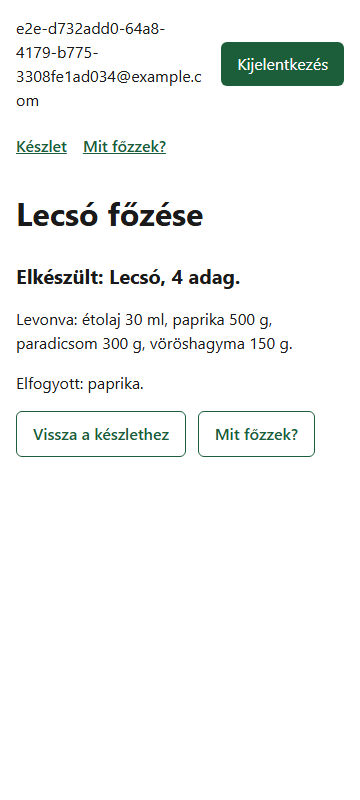
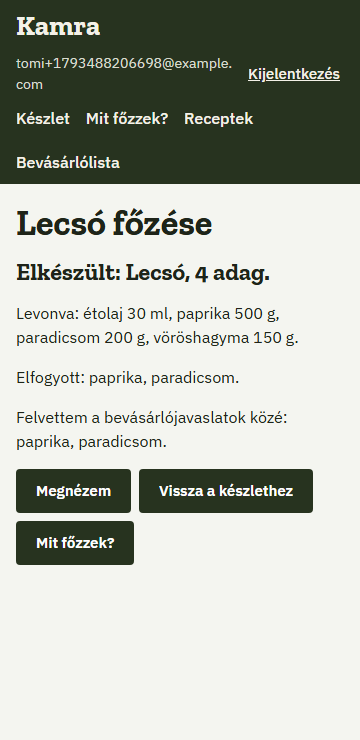
docs: record the 0.4.0 redesign, ADR-0013, P-24 and V-63 to V-65

diff --git a/docs/04_quality/test_report.md b/docs/04_quality/test_report.md
@@ -24,13 +24,14 @@ Cél: 30+ automatizált teszt (≥18 unit, ≥6 integrációs, ≥6 e2e/contract
 |---|---|---|---|
 | Unit | ≥ 18 | 346 | 346 |
 | Integrációs | ≥ 6 | 217 | 217 |
-| Frontend (Vitest) | – | 99 | 99 |
-| E2E | ≥ 6 | 9 (×2 nézet) | 9 |
+| Frontend (Vitest) | – | 123 | 123 |
+| E2E | ≥ 6 | 12 (×2 nézet) | 12 |
 | Negatív esetek | ≥ 5 | 374 | 374 |
-| **Összesen** | **≥ 30** | **671** | **671** |
+| **Összesen** | **≥ 30** | **698** | **698** |
 
 ## Legutolsó futás eredménye
 
+- **2026-11-01 (`v0.4.0`, `feature/design-system`):** PASS – Vitest 123/123 (ebből 24 kontrasztteszt), Playwright 24/24 futás (12 teszt × asztali Chrome és 360 px) elkülönített Docker Compose stack ellen; a backend nem változott. 6 mutáció, mind elbukik: a két oszlop és a latin-ext betűk nélkül az új e2e, a két regressziós teszt a javítás előtt, és a tokenteszt a fejsáv fókuszszabálya nélkül ([V-63 – V-65](../07_ai/verification_log.md)).
 - **2026-10-31 (`v0.3.1`, `feature/pre-uat-changes`):** PASS – .NET 563/563 helyben, a lefedettségi kapu fölött; Vitest 99/99; Playwright 18/18 futás elkülönített Docker Compose stack ellen (`-p kamra-e2e`, 8081-es port). 11 mutáció, mind elbukik; az M7 (üres levonássor), a K1 (ékezet) és a K7 (keresőszó az újratöltés után) elsőre túlélt, ezekre erősödtek a tesztek ([V-62](../07_ai/verification_log.md)). CI: [run 41231148667](https://github.com/toldor/kamra/actions/runs/41231148667) (2026-10-31, `5871f69`): `secrets`, `backend`, `frontend` és `e2e` job zöld.
 - **Előző futás (`v0.3.0`):**
   - Dátum: 2026-10-23
@@ -52,7 +53,7 @@ Cél: 30+ automatizált teszt (≥18 unit, ≥6 integrációs, ≥6 e2e/contract
 | Frontend ([App.test.tsx](../../src/frontend/src/App.test.tsx)) | Unit (Vitest) | Az API-kliens elküldi az antiforgery tokent, a ProblemDetails-ből magyar `ApiError` lesz; elavult tokennél egyszer újrapróbál friss tokennel; hálózati hibára magyar üzenet (negatív); hibás belépésnél H4 üzenet, az e-mail megmarad (negatív); a jelszó mezőhibája a mező alatt, `aria-describedby`-jal, és a fókusz a hibás mezőre ugrik (negatív); kijelentkezés már lejárt sessionnel üzenet nélkül a bejelentkezésre visz (negatív); sikeres regisztráció után üres készlet | ✅ 7/7 |
 | E2E ([auth.spec.ts](../../tests/e2e/auth.spec.ts)) | E2E (Playwright) | Regisztráció → üres készlet → újratöltés után is bejelentkezve → kijelentkezés → bejelentkezés; 360 px-en nincs vízszintes görgetés; hibás belépés H4 üzenettel (negatív). Asztali Chrome és 360 px-es mobil nézet | ✅ 2/2 (4 futás) |
 | Készlet-felület ([PantryPage.test.tsx](../../src/frontend/src/PantryPage.test.tsx)) | Unit (Vitest) | Lista mennyiséggel, egységgel, dátummal és jelvényekkel (lejárt, hamarosan lejár, becsült); üres és szűrt-üres állapot; a három szűrő a kérésben; egység a hozzávaló dimenziójából; a hozzávaló felismerése kis- és nagybetűtől, illetve fölös szóközöktől függetlenül; sikeres rögzítés a kérés törzsével; csökkentés okkal és verzióval; becsült lejárat jelölése a szerkesztőben; negatív: lista- és katalógushiba „Újra” gombbal és azonnali visszajelzéssel, ismeretlen hozzávaló kérés nélkül, szerverhiba a mező alatt fókusszal (űrlap és szerkesztő), üres mennyiség nem törlés, kitörölt dátum `null`, tizedes mennyiség nem csökkenés, **409 → friss adat és a változás kiemelése, a háttérlista is frissül**, 409 utáni kiléptetés, **404 → bezárás és ux_flows-üzenet**, lejárt munkamenet → bejelentkezés az üzenettel; a minimumszint-tájékoztató a Bevásárlólista linkjével | ✅ 23/23 |
-| E2E ([pantry.spec.ts](../../tests/e2e/pantry.spec.ts)) | E2E (Playwright) | Rögzítés lejárat nélkül → becsült dátum, 360 px-en vízszintes görgetés nélkül; csökkentés okkal, majd törlés okkal; a szerkesztőablak bezárása után a fókusz visszakerül a „Módosítás” gombra ([V-28](../07_ai/verification_log.md)). Asztali Chrome és 360 px-es mobil nézet | ✅ 3/3 (6 futás) |
+| E2E ([pantry.spec.ts](../../tests/e2e/pantry.spec.ts)) | E2E (Playwright) | Rögzítés lejárat nélkül → becsült dátum, 360 px-en vízszintes görgetés nélkül; csökkentés okkal, majd törlés okkal; a szerkesztőablak bezárása után a fókusz visszakerül a „Módosítás” gombra ([V-28](../07_ai/verification_log.md)); a betűk ő-vel és ű-vel (latin-ext) betöltődnek, asztalon az űrlap a lista mellett, 360 px-en fölötte; a fejsáv „Kijelentkezés” gombja hoverkor is legalább 4,5:1 (regresszió). Asztali Chrome és 360 px-es mobil nézet | ✅ 5/5 (10 futás) |
 | Indítás ([StartupTests.cs](../../tests/KamraApp.Integration.Tests/StartupTests.cs)) | Integrációs | Connection string nélkül az alkalmazás nem indul el (fail-fast, QA-7, negatív); elérhetetlen adatbázisnál a `/health` 503 (negatív); az antiforgery token sima HTTP-n is kiadható (V-12) | ✅ 3/3 |
 | Mértékegységek ([QuantityTests.cs](../../tests/KamraApp.Unit.Tests/QuantityTests.cs)) | Unit | Átváltás alapegységre (dkg → g, kg → g, dl → ml, l → ml), minden egység pontosan egy dimenzióhoz tartozik, visszaváltás a bevitt egységre a válaszhoz ([ADR-0002](../02_architecture/adr/0002-fix-atvalthato-mertekegysegek.md)) | ✅ 18/18 |
 | Lejárat ([ExpiryTests.cs](../../tests/KamraApp.Unit.Tests/ExpiryTests.cs)) | Unit | Becsült lejárat mind a 13 kategóriára a [data_model.md](../03_design/data_model.md) napértékeivel; „Egyéb” kategóriánál nincs becslés (negatív); a „hamarosan lejáró” ablak határai (tegnap: lejárt; ma, holnap, holnapután: igen; +3 nap: nem); a „ma” a budapesti naptári nap nyári és téli időben, évváltáskor is, egy tetszőleges időpont (a bevitel napja) is ([V-23](../07_ai/verification_log.md)) | ✅ 24/24 |
@@ -79,11 +80,12 @@ Cél: 30+ automatizált teszt (≥18 unit, ≥6 integrációs, ≥6 e2e/contract
 | Bevásárlólista – API ([ShoppingListApiTests.cs](../../tests/KamraApp.Integration.Tests/ShoppingListApiTests.cs)) | Integrációs | P11–P16, P19, P20; azonos hiány az ajánlásban, az előnézetben és a listán; a javaslat a főzéssel egy tranzakcióban (`xmin`); ΣDelta-invariáns; egyidejű elfogadás/elutasítás és felvétel; részleges egyedi index SQL-lel; elkülönítés két háztartással; 401, antiforgery, validáció | Megvalósítva |
 | Ellenséges bevásárlólista-tesztek ([AdversarialShoppingListApiTests.cs](../../tests/KamraApp.Integration.Tests/AdversarialShoppingListApiTests.cs)) | Integrációs | Az Antigravity (Claude Sonnet 4.6) 8 tesztjéből 7 felvéve (ismétlés törölt sor után, 100 000-es határ, dimenzió, csökkenési ok, minimum törlése, verseny ötször, szivárgás a hibaválaszban), 1 érvénytelen kihagyva ([V-40](../07_ai/verification_log.md)) | Megvalósítva |
 | Bevásárlólista-felület ([ShoppingListPage.test.tsx](../../src/frontend/src/ShoppingListPage.test.tsx)) | Unit (Vitest) | Menü és `aria-current`; a négy állapot; az elfogyott- és a minimum-javaslat indoka, mennyisége és magyarázata (M12, M13); elfogadás `{}`-val és `{ amount, unit }`-val; elutasítás a következmény szövegével, a fókusz az értesítésre kerül; a gombok a friss lista megérkezéséig tiltva; kézi felvétel mennyiséggel és anélkül; kipipálás azonnal; törlés; minimumszint beállítása és törlése; negatív: hiba + „Újra”, érvénytelen mennyiség a mezőnél, másutt eldöntött javaslat és törölt tétel → önfrissítés, hozzávaló nélkül nincs kérés, sikertelen pipa visszaáll, minimum mennyiség nélkül nincs kérés; keresés a tételnévben, a szűrt sor a saját tételét pipálja, a keresőszó az újratöltés után megmarad; negatív: nincs találat → üzenet, üres listánál nincs kereső | ✅ 22/22 |
-| E2E ([shopping.spec.ts](../../tests/e2e/shopping.spec.ts)) | E2E (Playwright) | **P13** a teljes úton: rögzítés → „Mit főzzek?” (paradicsom 100 g hiányzik) → előnézet (hiány 100 g) → hiány a listára → megerősítés → *„Felvettem a bevásárlójavaslatok közé: paprika.”* → a paprika-javaslat elfogadása 500 g-mal (paradicsom-javaslat nincs, M15) → kipipálás → újratöltés után ugyanaz; 360 px-en vízszintes görgetés nélkül. Asztali Chrome és 360 px-es mobil nézet | ✅ 1/1 (2 futás) |
+| E2E ([shopping.spec.ts](../../tests/e2e/shopping.spec.ts)) | E2E (Playwright) | **P13** a teljes úton: rögzítés → „Mit főzzek?” (paradicsom 100 g hiányzik) → előnézet (hiány 100 g) → hiány a listára → megerősítés → *„Felvettem a bevásárlójavaslatok közé: paprika.”* → a paprika-javaslat elfogadása 500 g-mal (paradicsom-javaslat nincs, M15) → kipipálás → újratöltés után ugyanaz; 360 px-en vízszintes görgetés nélkül; a hosszú nevű minimumszint „Törlés” gombja a panelen belül marad (regresszió). Asztali Chrome és 360 px-es mobil nézet | ✅ 2/2 (4 futás) |
 | Saját recept, archiválás, saját hozzávaló – Domain és Application ([OwnRecipeTests.cs](../../tests/KamraApp.Unit.Tests/OwnRecipeTests.cs)) | Unit | Alapegységű tárolás, a háztartás és a rendezett név; a hozzávaló normalizált neve (U+00A0 is); a lista és a hozzávalók magyar betűrendben; archiválás idővel, ismételt archiválás változatlan; negatív: az M9 minden szabálya mezőnként (név, adagszám, elkészítés, 0 és 51 sor, hiányzó vagy ismétlődő hozzávaló, mennyiség, egység és dimenzió, csak alaphozzávaló), idegen hozzávaló (P17) és recept, foglalt név normalizálás után, hibás hozzávaló-kérés | ✅ 42/42 |
 | Archivált recept a főzésnél ([CookingUseCaseTests.cs](../../tests/KamraApp.Unit.Tests/CookingUseCaseTests.cs)) | Unit | M8: előnézet és új főzés `RECIPE_ARCHIVED`, levonás nélkül (negatív); D-c: az ismétlés a tárolt választ kapja | ✅ 3/3 |
 | Receptek-API ([RecipesApiTests.cs](../../tests/KamraApp.Integration.Tests/RecipesApiTests.cs)) | Integrációs | **P17**, **P18a**, **P18b**; ismételt és 5 × egyidejű archiválás egy sorral; a migráció sémája SQL-lel; negatív: foglalt név (rendszer- és saját), idegen recept és hozzávaló, visszavont hozzávaló, 5 × egyidejű azonos név, sorhiba-kulcs, 401 és antiforgery minden új végponton | ✅ 21/21 |
 | Ellenséges recept-tesztek ([AdversarialRecipesAndCookingTests.cs](../../tests/KamraApp.Integration.Tests/AdversarialRecipesAndCookingTests.cs)) | Integrációs | Az Antigravity (Claude Sonnet 4.6) írta, három tesztkód-javítással ([V-50](../07_ai/verification_log.md)): IDOR a hozzávaló-hivatkozáson (recept, készlet, minimum), archiválási jogosultság és elkülönítés, a D-c kijátszása (új `requestId`, ugyanaz más recepttel), névnormalizálás, 100 és 101 karakter, 10 hibás receptbemenet, szivárgás a hibaválaszban | ✅ 24/24 |
+| Színtokenek ([tokens.test.ts](../../src/frontend/src/tokens.test.ts)) | Unit (Vitest) | Az `index.css` tokenjeiből: 17 szöveg–háttér pár legalább 4,5:1, 5 nem-szöveges pár (fókusz, mezőkeret, menüjelölő, kiemelés) legalább 3:1; a kék fókusz a fejsávon nem éri el a 3:1-et, ezért ott saját fókuszszín kell (negatív) ([ADR-0013](../02_architecture/adr/0013-vizualis-rendszer.md)) | ✅ 24/24 |
 | Receptek-felület ([RecipesPage.test.tsx](../../src/frontend/src/RecipesPage.test.tsx)) | Unit (Vitest) | Menü és `aria-current`; a négy állapot; archiválás csak megerősítéssel, értesítés fókusszal; az „Új recept” kérés törzse, sor hozzáadása és törlése; piszkozat visszatöltése és törlése (M14); „Új hozzávaló” csak ismeretlen névnél, fókusszal a kis űrlapra és vissza, a készletűrlapon is; negatív: hiba + „Újra”, mezőhibák a megfelelő sor alatt fókusszal, hozzávaló nélkül nincs kérés, recept szintű hiba az 1. sorban, sortörlés törli a hibákat, hiányzó mérési mód a mezőnél, névütközés; keresés a névben (kis- és nagybetű, fölös szóköz) és a hozzávalókban, súgóval; negatív: ékezet nélkül nincs találat, nincs találat → üzenet, üres mező → minden recept | ✅ 18/18 |
 | E2E ([recipes.spec.ts](../../tests/e2e/recipes.spec.ts)) | E2E (Playwright) | Saját recept saját hozzávalóval → újratöltés, a piszkozat megmarad → mentés → készlet → „Mit főzzek?”: elkészíthető → archiválás → eltűnik; 360 px-en vízszintes görgetés nélkül | ✅ 1/1 (2 futás) |
 

diff --git a/docs/01_product/ux_flows.md b/docs/01_product/ux_flows.md
@@ -46,7 +46,7 @@ A három fő felhasználói útvonal, a hibahelyzetek, az üres állapotok és a
 - **Cél:** Tomi felveszi a saját receptjét a saját hozzávalóival, és kiveszi az ajánlásból azt, amit nem főz.
 - **Előfeltétel:** bejelentkezett felhasználó.
 - **Lépések:**
-  1. A „Receptek” oldalon az induló és a saját receptek állnak, a saját „Saját recept” jelöléssel; mindegyiknél „Recept megtekintése” és „Archiválás”. A lista fölötti „Keresés” mező a recept nevében és hozzávalóiban keres.
+  1. A „Receptek” oldalon az induló és a saját receptek állnak, a saját „Saját recept” jelöléssel; mindegyiknél „Megnyitás” és „Archiválás”. A lista fölötti „Keresés” mező a recept nevében és hozzávalóiban keres.
   2. Az „Új recept” űrlapon megadja a nevet, az adagszámot, a hozzávalókat mennyiséggel és egységgel, és ha akarja, az elkészítést. Ha egy hozzávaló nincs a listán, a mező alatt „Új hozzávaló: *név*”: megadja, mivel méri és melyik kategória, és a hozzávaló csak az ő háztartásában jelenik meg. Ugyanez a készletűrlapon is működik.
   3. Ha közben frissít vagy újra be kell jelentkeznie, a félbehagyott recept visszatöltődik: *„Visszatöltöttem a félbehagyott receptet.”*
   4. Mentés után: *„Elmentettem a receptet: Zabtejes kakaó.”* A recept a készletből ugyanúgy ajánlható és főzhető, mint az induló.
@@ -96,6 +96,7 @@ A hibaüzenetek magyarok, nem tartalmaznak technikai kifejezést vagy HTTP-kódo
 - A hibaüzenetek képernyőolvasóval is felolvasódnak (`aria-live`), és a hibás mezőhöz kapcsolódnak.
 - Az ikonos gomboknak szöveges neve van.
 - Mobilon legalább 16 px-es alap betűméret, és legalább 44×44 px-es érintési felület.
+- A színek kontrasztját teszt őrzi ([tokens.test.ts](../../src/frontend/src/tokens.test.ts)); a sötét fejsávon a fókuszkeret a fejsáv világos szövegszíne.
 
 **Ellenőrzés:** a Chrome Lighthouse akadálymentességi auditja a készlet, a „Mit főzzek?” és a bevásárlólista oldalon (legalább 90 pont), valamint egy kézi billentyűzetes bejárás. Opcionális bővítés: automatizált axe-core ellenőrzés az e2e tesztekben (új függőség, jóváhagyás kell).
 
@@ -103,9 +104,9 @@ A hibaüzenetek magyarok, nem tartalmaznak technikai kifejezést vagy HTTP-kódo
 
 | Flow | Screenshot / GIF | E2E teszt |
 |---|---|---|
-| 1. Első indulás és bevásárlás rögzítése | Kézi ág: [pantry-360.png](../assets/pantry-360.png) (360 px); a mondatos ág a US-2-vel | Kézi ág: [pantry.spec.ts](../../tests/e2e/pantry.spec.ts) (rögzítés becsült lejárattal, csökkentés okkal, törlés, fókusz-visszaadás); a mondatos ág a 2. lépcsőben |
-| 2. „Mit főzzek?” – főzés | Ajánlás: [recommendations-360.png](../assets/recommendations-360.png) (P7); főzés: [cooking-360.png](../assets/cooking-360.png), [cooking-done-360.png](../assets/cooking-done-360.png) (P2) | [cooking.spec.ts](../../tests/e2e/cooking.spec.ts) (a fő flow a P2-vel, dupla kattintás); [RecommendationsPage.test.tsx](../../src/frontend/src/RecommendationsPage.test.tsx), [CookingPage.test.tsx](../../src/frontend/src/CookingPage.test.tsx) |
-| 3. Bevásárlójavaslattól a listáig | [shopping-360.png](../assets/shopping-360.png) (P13) | [shopping.spec.ts](../../tests/e2e/shopping.spec.ts) (P13 a teljes úton: ugyanaz a hiány az ajánlásban, az előnézeten és a listán); [ShoppingListPage.test.tsx](../../src/frontend/src/ShoppingListPage.test.tsx) |
+| 1. Első indulás és bevásárlás rögzítése | Kézi ág: [pantry-360.png](../assets/pantry-360.png) (360 px), [pantry-1280.png](../assets/pantry-1280.png) (asztali); a mondatos ág a US-2-vel | Kézi ág: [pantry.spec.ts](../../tests/e2e/pantry.spec.ts) (rögzítés becsült lejárattal, csökkentés okkal, törlés, fókusz-visszaadás); a mondatos ág a 2. lépcsőben |
+| 2. „Mit főzzek?” – főzés | Ajánlás: [recommendations-360.png](../assets/recommendations-360.png) (P7), [recommendations-1280.png](../assets/recommendations-1280.png) (asztali, mindkét csoporttal); főzés: [cooking-360.png](../assets/cooking-360.png), [cooking-done-360.png](../assets/cooking-done-360.png) (P2) | [cooking.spec.ts](../../tests/e2e/cooking.spec.ts) (a fő flow a P2-vel, dupla kattintás); [RecommendationsPage.test.tsx](../../src/frontend/src/RecommendationsPage.test.tsx), [CookingPage.test.tsx](../../src/frontend/src/CookingPage.test.tsx) |
+| 3. Bevásárlójavaslattól a listáig | [shopping-360.png](../assets/shopping-360.png) (P13), [shopping-1280.png](../assets/shopping-1280.png) (asztali) | [shopping.spec.ts](../../tests/e2e/shopping.spec.ts) (P13 a teljes úton: ugyanaz a hiány az ajánlásban, az előnézeten és a listán); [ShoppingListPage.test.tsx](../../src/frontend/src/ShoppingListPage.test.tsx) |
 | 4. Saját recept és archiválás | [recipes-360.png](../assets/recipes-360.png), [recipes-form-360.png](../assets/recipes-form-360.png) | [recipes.spec.ts](../../tests/e2e/recipes.spec.ts) (saját recept saját hozzávalóval, a piszkozat túléli az újratöltést, ajánlásban megjelenik, archiválás után eltűnik); [RecipesPage.test.tsx](../../src/frontend/src/RecipesPage.test.tsx) |
 | Hibakezelés (H1, H3) | Screenshot a hibaüzenettel és a helyreállítással | Playwright: AI-kiesés mockkal, hálózati hiba |
 
@@ -115,5 +116,4 @@ A hibaüzenetek magyarok, nem tartalmaznak technikai kifejezést vagy HTTP-kódo
 - Az „Új hozzávaló” csak a készlet- és a receptűrlapon érhető el, a bevásárlólistán és a minimumszintnél nem. A saját hozzávaló és a saját recept nem szerkeszthető, az archiválás nem vonható vissza (data_model, Ismert hiányosságok).
 - A „Hiány a bevásárlólistára” gomb (a „Mit főzzek?” oldalon és a főzés előnézetén) a sikeres felvétel után eltűnik az adott képernyőről. Ha az oldal újratöltése után újra megnyomod, a mennyiségek összeadódnak, a lista egy sor marad. Ha a főzés előnézetén a felvétel után módosítod a mennyiségeket, a különbséget kézzel veheted fel a listára.
 - A keresés a böngészőben szűr; az ékezet számít (a „lecso” nem találja a „Lecsó”-t), ahogy a készletnél.
-- A képernyőképek (`docs/assets`) a `v0.3.0` feliratait mutatják.
 - A szerkesztőablak bezárásakor a fókusz visszakerül a megnyitó „Módosítás” gombra ([V-28](../07_ai/verification_log.md)); törléskor a gomb megszűnik, ilyenkor a fókusz a lap elejére kerül.

diff --git a/docs/07_ai/prompt_log.md b/docs/07_ai/prompt_log.md
@@ -428,3 +428,21 @@ A **„Mit változtattam / döntésem"** mezőt a fejlesztő tölti ki – az AI
   - docs: `02_architecture/adr/0012-bongeszos-kereses.md`, `00_index.md`, `scope_contract.md`, `ux_flows.md`, `capability_map.md`, `traceability.md`, `test_report.md`, `uat.md`, `deploy_runbook.md`, `changelog.md`, `README.md`, `verification_log.md` (V-61, V-62), `prompt_log.md` (P-23);
   - a repón kívül: `03_tervek\2026-10-31_v031_terv.md`.
 - **Mit változtattam / döntésem:** Elfogadtam az 1a, 1b, 2 (a javasolt szöveggel) és 3 pontot. A 4-et az ajánlással szemben az UAT előtt megvalósíttattam, a vállalás bővítésével. Az 5-öt elvetettem. A commitokat és a pusht kérésemre a Claude Code végezte (Co-Authored-By nélkül).
+
+### P-24 – Design system és új felület (v0.4.0)
+- **Dátum:** 2026-10-31 – 2026-11-01
+- **Cél:** A felület újratervezése a fejlesztő által választott design szerint, a működés megtartásával; az UAT ezen az új felületen fut.
+- **Eszköz:** Claude Code (claude-opus-5-5), a Claude Design-vászon és artifactok („Kamra stílusirányok”), `/code-review` két ágenssel (kódolási szabályok, spec); független review: Antigravity (Gemini).
+- **Prompt összefoglaló:** „Szeretnék nagy UI javításokat és újratervezést is csinálni … modern de nem tipikus AI kinézetű webdesign. a claude design erre jó lenne nekem” → „Kezdjük el a design systemet és kódoljuk is le (új branchen), az UAT ez után csináljuk” → „igen” (3 irány) → „A C2 és C3 designokat választottam … Tartsd meg a C2 és C3 designokból a színeket, elrendezést, stílust.” → a 8 ütközésre adott döntések, „jóváhagyom a tervet” → „12: mehet, commitolj te most” → „kell egy kis javítás” (hosszú nevű minimumszint, a kereső helye) → „igen, javítsd mind az F1–F5 pontokat” → az Antigravity-review → „A” (0.4.0) → „Igen” (doksi).
+- **AI javaslat (eredeti):**
+  - **Módszer:** a Claude-on belüli Design-vászon és Design System artifact (a különálló claude.ai/design 2026. dec. 14-én bezár); három irány: A „Címke”, B „Konyhai jegyzetfüzet”, C „Piaci tábla”; ajánlás: A.
+  - **Ütközésvizsgálat a C2/C3 táblákon:** 8 pont (a Receptek elkészíthetőségi szűrője és címkéje, „Megnyitás”/„Szerkesztés”, a listatétel forrása, a szabad szöveges új tétel, a javaslatok gombjai, a soronként szerkeszthető minimumszint, a hiányzó lista-funkciók, a Készlet „Új tétel” űrlapja); mindegyiknél javaslat a mostani működés megtartására.
+  - **Terv** (`03_tervek\2026-10-31_design_system_terv.md`): tokenek CSS-változóként, saját tárhelyű betűk (ADR-0013), kontrasztteszt, oldalankénti átépítés; a fejsávon a kék fókuszkeret kb. 2:1-es – ezt a Claude Code a kontrasztszámításnál maga találta.
+  - **Review:** a `/code-review` szétválogatva (F1–F5), az Antigravity 8 megállapítása szétválogatva ([V-65](verification_log.md)); verzió: `0.4.0` (A, ajánlott), a US-2 `0.5.0`.
+- **Eltérés a folyamattól:** ennél a szakasznál a tesztek az implementáció után készültek, nem előtte; a két regressziós teszt (hosszú nevű minimumszint, a fejsáv hover-kontrasztja) a javítás előtt pirosan futott, de az elsőt csak a `feat:` commit után commitoltuk.
+- **Érintett fájlok:**
+  - kód: `src/frontend/src/` `index.css`, `Layout.tsx`, `App.tsx`, `AuthForm.tsx`, `CookingPage.tsx`, `PantryPage.tsx`, `PantryItemForm.tsx`, `RecipeForm.tsx`, `RecipesPage.tsx`, `RecommendationsPage.tsx`, `ShoppingListPage.tsx`; `src/frontend/vite.config.ts`; `src/frontend/public/fonts/` (4 woff2, 2 OFL);
+  - tesztek: `tokens.test.ts`, `RecipesPage.test.tsx`, `RecommendationsPage.test.tsx`, `tests/e2e/pantry.spec.ts`, `shopping.spec.ts`;
+  - docs: `02_architecture/adr/0013-vizualis-rendszer.md`, `00_index.md`, `scope_contract.md`, `ux_flows.md`, `privacy_licensing.md`, `test_report.md`, `uat.md`, `changelog.md`, `README.md`, `docs/assets/` (7 frissített és 3 új képernyőkép), `verification_log.md` (V-63 – V-65), `prompt_log.md` (P-24);
+  - a repón kívül: `03_tervek\2026-10-31_design_system_terv.md`, a „Kamra stílusirányok” vászon (privát artifact).
+- **Mit változtattam / döntésem:** A C irányt választottam, és a vásznon C2 (mobil) és C3 (asztali) változattá fejlesztettem tovább (rózsa kiemelés, asztali elrendezés). Az ütközéseknél: a Receptek oldalon „Megnyitás”; a „Csak az elkészíthetők” szűrő és a listatétel forrása későbbi továbbfejlesztés; a többi a javaslat szerint. Két hibát én találtam a felületen (a hosszú nevű minimumszint kicsúszott; a kereső helye a Készlet oldalon). A verzió 0.4.0. A commitokat kérésemre a Claude Code végezte.

diff --git a/docs/02_architecture/adr/0013-vizualis-rendszer.md b/docs/02_architecture/adr/0013-vizualis-rendszer.md
@@ -1,0 +1,32 @@
+# 0013 - Saját vizuális rendszer: tokenek CSS-változókban, saját tárhelyű betűk
+
+Dátum: 2026-10-31
+Státusz: Accepted
+
+## Context
+
+- A fejlesztő a „Kamra stílusirányok” design-vásznon a C2 (mobil, keskeny) és a C3 (asztali) táblákat választotta: olívazöld fejsáv, rózsa kiemelés, Zilla Slab címek, IBM Plex Sans szöveg, név – pontozott vezetővonal – mennyiség sorok. Eddig az app rendszerbetűs, 28rem széles egyetlen oszlop volt.
+- Kényszerek: új npm-függőség csak jóváhagyással (AGENTS.md 2. pont); az [ux_flows](../../01_product/ux_flows.md) akadálymentességi minimuma (4,5:1 kontraszt, 44 px célok, látható fókusz); a magyar ő és ű; adatvédelem: az app nem küldhet kérést külső betűszolgáltatónak.
+
+## Decision
+
+- A színek, a betűk, a térközök és a lekerekítés CSS custom propertyként a `src/frontend/src/index.css` `:root` blokkjában vannak; a Zilla Slab és az IBM Plex Sans woff2-ben (latin + latin-ext, OFL 1.1) a `src/frontend/public/fonts` alatt; asztalon két oszlop, 760 px alatt egymás alatt, a sorok container queryvel igazodnak.
+
+## Alternatives
+
+1) CSS-keretrendszer (például Tailwind) vagy komponenskönyvtár – előny: kész rácsrendszer és komponensek; hátrány: új függőség és build-lépés, a C2/C3 egyedi kinézetét úgyis felül kellene írni.
+2) Google Fonts CDN – előny: nincs fájl a repóban, automatikus frissítés; hátrány: minden oldalbetöltés harmadik félhez megy (a felhasználó IP-címe), és belső hálózaton, internet nélkül nem töltődik be.
+3) Maradnak a rendszerbetűk – előny: nincs letöltés; hátrány: elvész a tervezett karakter, és az ő/ű megjelenése platformfüggő.
+
+## Consequences
+
+- **Pozitív:** a kinézet egy helyen változik; a kontrasztot teszt őrzi; futás közben nincs külső kérés.
+- **Negatív / kockázatok:** kb. 121 KB betű (négy fájl) (`font-display: swap`, a böngésző csak a szükséges `unicode-range` tartományt tölti le); a betűket és a `unicode-range` értékeket kézzel kell frissíteni. Az olívazöld fejsávon a kék fókuszkeret csak kb. 2:1-es, ezért ott a fejsáv világos szövegszíne a fókuszkeret.
+- **Figyelni kell:** új szín csak tokenként kerülhet be, a kontrasztpárjával a `tokens.test.ts`-ben.
+
+## Verification
+
+- [tokens.test.ts](../../../src/frontend/src/tokens.test.ts): 17 szöveg–háttér pár legalább 4,5:1, 5 nem-szöveges pár legalább 3:1, a fejsáv fókuszszínével ([V-63](../../07_ai/verification_log.md)).
+- E2E [pantry.spec.ts](../../../tests/e2e/pantry.spec.ts) „loads the fonts for ő and ű…”: a latin-ext betűk betöltődnek, asztalon két oszlop, 360 px-en egymás alatt; két mutációval ellenőrizve ([V-64](../../07_ai/verification_log.md)).
+- E2E „the logout button keeps its contrast on the band when hovered”: a fejsáv hover-állapota (a `/code-review` lelete, regressziós teszt).
+- Képernyőképek 1280 és 390 px-en, vízszintes görgetés nélkül; evidence: [test_report.md](../../04_quality/test_report.md).

diff --git a/docs/04_quality/uat.md b/docs/04_quality/uat.md
@@ -6,7 +6,7 @@ Azt vizsgálja, hogy a célcsoportba tartozó felhasználó a valós feladatát 
 
 | Kör | Időszak | Verzió | Tartalom | Résztvevők |
 |---|---|---|---|---|
-| 1. | 2026. okt. 26. – nov. 1. | `v0.3.1` | A determinisztikus út: készlet, „Mit főzzek?”, főzés, bevásárlólista, saját recept (US-1, US-3, US-4, US-5) | 4 fő (U1–U4) |
+| 1. | 2026. okt. 26. – nov. 1. | `v0.4.0` | A determinisztikus út: készlet, „Mit főzzek?”, főzés, bevásárlólista, saját recept (US-1, US-3, US-4, US-5) | 4 fő (U1–U4) |
 | 2. | 2026. nov. 16–27. | a nov. 13-i változat | Egy mondatos bevitel és a csak olvasó chat (US-2, US-6), az 1. kör javításai | 3–4 fő ugyanezek közül |
 | Újratesztelés | dec. 4. előtt | a javított változat | Az 1–2. körben talált elakadások javítása után ugyanazok a forgatókönyvek | aki vállalja |
 
@@ -23,7 +23,7 @@ A résztvevők nevét, elérhetőségét és a hozzájárulást a fejlesztő a r
 
 ## Lebonyolítás
 
-- **Hol:** személyesen a fejlesztő laptopján, vagy képernyőmegosztással, ahol a résztvevő vezérel (távoli vezérlés). Az alkalmazás nem kerül ki az internetre: a laptopon fut, Docker Compose-zal, a `v0.3.1`-en ([deploy_runbook.md](../05_security_ops/deploy_runbook.md)).
+- **Hol:** személyesen a fejlesztő laptopján, vagy képernyőmegosztással, ahol a résztvevő vezérel (távoli vezérlés). Az alkalmazás nem kerül ki az internetre: a laptopon fut, Docker Compose-zal, a `v0.4.0`-n ([deploy_runbook.md](../05_security_ops/deploy_runbook.md)).
 - **Mobil:** az S5 a Chrome telefonnézetében (360 × 740 px) fut. A bejelentkezési süti `Secure`, ezért valódi telefonról a laptop helyi címén, `http`-n nem lehet bejelentkezni; ez az 1. kör korlátja.
 - **Tesztfiók:** minden résztvevő maga regisztrál egy előre kiadott, kitalált címmel (`u1@example.com` …), nem a saját e-mail-címével.
 - **Időtartam:** kb. 40 perc: 5 perc bevezetés és hozzájárulás, 5 × 5–7 perc feladat, 5 perc kérdések.

diff --git a/docs/05_security_ops/privacy_licensing.md b/docs/05_security_ops/privacy_licensing.md
@@ -14,7 +14,7 @@ A tesztekben és a dokumentációban csak kitalált adat szerepel (`@example.com
 
 ## Adatáramlás
 
-Böngésző → API (`/api/v1`, session-cookie) → PostgreSQL ugyanazon a gépen. Harmadik félhez jelenleg semmi nem megy. A tervezett MI-funkciók (US-2, US-6) a beírt szöveget és a válaszhoz szükséges készletadatot küldik egy LLM-szolgáltatónak, fiókadatot (e-mail, jelszó) soha ([scope_contract.md](../01_product/scope_contract.md), 3. Korlátok); a szolgáltató és az adatküldés részletei a megfelelő ADR-ben.
+Böngésző → API (`/api/v1`, session-cookie) → PostgreSQL ugyanazon a gépen. Harmadik félhez jelenleg semmi nem megy. A felület sem tölt be külső erőforrást: a betűk is az alkalmazás saját címéről jönnek ([ADR-0013](../02_architecture/adr/0013-vizualis-rendszer.md)). A tervezett MI-funkciók (US-2, US-6) a beírt szöveget és a válaszhoz szükséges készletadatot küldik egy LLM-szolgáltatónak, fiókadatot (e-mail, jelszó) soha ([scope_contract.md](../01_product/scope_contract.md), 3. Korlátok); a szolgáltató és az adatküldés részletei a megfelelő ADR-ben.
 
 ## Megőrzés és törlés
 
@@ -51,6 +51,7 @@ A projekt licence: MIT ([LICENSE](../../LICENSE)) (D2).
 | vite, @vitejs/plugin-react, vitest, jsdom, @testing-library/react, @testing-library/dom, openapi-typescript, oxlint, @types/* | lásd `package-lock.json` | MIT | frontend (fejlesztés) |
 | typescript | 5.9.3 | Apache-2.0 | frontend, e2e |
 | @playwright/test | 1.63.0 | Apache-2.0 | e2e |
+| Zilla Slab 700, IBM Plex Sans (betűtípus, woff2, latin + latin-ext) | Google Fonts, 2026-10-31 (Zilla Slab v12, IBM Plex Sans v23) | SIL OFL 1.1 (`src/frontend/public/fonts/OFL-*.txt`) | frontend, saját tárhelyről |
 
 Mind megengedő licenc, egymással és az MIT-tel kompatibilis. A Docker-alapképek: `postgres:18` (PostgreSQL License), `mcr.microsoft.com/dotnet/*` (MIT), `node:24-alpine` (MIT).
 

diff --git a/docs/06_release/changelog.md b/docs/06_release/changelog.md
@@ -2,6 +2,19 @@
 
 A kiadások a [Semantic Versioning](https://semver.org/) szerint számozódnak; a `1.0.0` előtti változatok fejlesztési mérföldkövek. Minden kiadás git taggel jelölt.
 
+## [0.4.0] – 2026-11-01 – Új felület
+
+A fejlesztő által választott „Piaci tábla” design (a „Kamra stílusirányok” vászon C2 és C3 táblái) az egész alkalmazásban. A működés és az API nem változott. Részletek: [ADR-0013](../02_architecture/adr/0013-vizualis-rendszer.md), [P-24](../07_ai/prompt_log.md), [V-63 – V-65](../07_ai/verification_log.md).
+
+### Hozzáadva
+- Saját vizuális rendszer: színek, betűk és térközök CSS-változóként; saját tárhelyű betűk (Zilla Slab, IBM Plex Sans, OFL 1.1) a magyar ő és ű betűvel.
+- Asztali elrendezés: fejsáv a menüvel, két oszlop (a szűrők és az űrlapok mellett a lista); 760 px alatt egymás alatt.
+- Kontrasztteszt a színekre; e2e a betűkre, az elrendezésre és két javított hibára (hosszú nevű minimumszint, a fejsáv hover-kontrasztja).
+
+### Módosítva
+- A Készlet oldal címe „Készlet” (a „Kamra” a fejsáv logója), a lista szakasza „Tételek”, a kereső az „Új tétel” fölött.
+- A Receptek oldalon a gomb felirata „Megnyitás”.
+
 ## [0.3.1] – 2026-10-31 – Az UAT előtti javítások
 
 A fejlesztő UAT előtti kipróbálásából: érthetőbb feliratok és kereső. A backend és az API nem változott. Részletek: [ADR-0012](../02_architecture/adr/0012-bongeszos-kereses.md), [P-23](../07_ai/prompt_log.md), [V-61](../07_ai/verification_log.md), [V-62](../07_ai/verification_log.md).

diff --git a/README.md b/README.md
@@ -97,7 +97,7 @@ A chat nem módosíthat közvetlenül adatot.
 
 ## Architektúra
 
-Megvalósult (v0.3.1): React-frontend, Web API, Application, Domain, Infrastructure, PostgreSQL. Tervezett: LLM-adapter (2. lépcső) és MCP-szerver (3. lépcső).
+Megvalósult (v0.4.0): React-frontend, Web API, Application, Domain, Infrastructure, PostgreSQL. Tervezett: LLM-adapter (2. lépcső) és MCP-szerver (3. lépcső).
 
 ```text
 React + TypeScript frontend
@@ -215,7 +215,7 @@ Az e2e tesztekhez a tesztelt Api-t emelt bejelentkezési limittel érdemes indí
 | Szakasz | Tervezett tartalom | Állapot |
 |---|---|---|
 | Alapok | Repository, CI, architektúra, walking skeleton (autentikáció, Docker Compose) | Kész (2026-10-04) |
-| 1. lépcső | Determinisztikus készlet-, recept-, főzés- és bevásárlólista-funkciók | Kész (v0.3.0, 2026-10-24; az UAT előtti javítások: v0.3.1, 2026-10-31); a felhasználói kipróbálás okt. 26-tól |
+| 1. lépcső | Determinisztikus készlet-, recept-, főzés- és bevásárlólista-funkciók | Kész (v0.3.0, 2026-10-24; az UAT előtti javítások: v0.3.1, 2026-10-31; új felület: v0.4.0, 2026-11-01); a felhasználói kipróbálás okt. 26-tól |
 | 2. lépcső | AI-alapú egy mondatos készletbevitel | Tervezett (cél: nov. 3.; témavezetői: nov. 6.) |
 | 3. lépcső | Olvasási célú chat és mérési funkciók | Tervezett (cél: nov. 10.; témavezetői: nov. 20.) |
 | Lezárás | Tesztek, hardening, dokumentáció, demó és szakdolgozati anyag | Tervezett (cél: dec. 4.) |

diff --git a/docs/00_index.md b/docs/00_index.md
@@ -38,6 +38,7 @@ Minden fájl a kóddal együtt frissül (lásd `AGENTS.md` 9. pont).
 | [adr/0008-konkurencia-es-idempotencia.md](02_architecture/adr/0008-konkurencia-es-idempotencia.md) | Optimista zárolás xmin-nel, főzés-idempotencia kérésazonosítóval, upsert és egyedi kényszerek | Accepted |
 | [adr/0011-serilog-strukturalt-naplozas.md](02_architecture/adr/0011-serilog-strukturalt-naplozas.md) | Serilog JSON-napló, szerver által generált correlationId | Accepted |
 | [adr/0012-bongeszos-kereses.md](02_architecture/adr/0012-bongeszos-kereses.md) | Böngészőben szűrő kereső a Receptek és a Bevásárlólista oldalon | Accepted |
+| [adr/0013-vizualis-rendszer.md](02_architecture/adr/0013-vizualis-rendszer.md) | Saját vizuális rendszer: tokenek CSS-változókban, saját tárhelyű betűk | Accepted |
 
 ---
 
@@ -108,7 +109,7 @@ Minden fájl a kóddal együtt frissül (lásd `AGENTS.md` 9. pont).
 
 ## Hiányzó fájlok összesítve (teendők)
 
-- `docs/02_architecture/adr/0009-*.md`, `0010-*.md` (9 ADR megvan: 0002–0008, 0011 és 0012; kötelezően még: LLM-szolgáltató; tervezett: MCP-integráció)
+- `docs/02_architecture/adr/0009-*.md`, `0010-*.md` (10 ADR megvan: 0002–0008 és 0011–0013; kötelezően még: LLM-szolgáltató; tervezett: MCP-integráció)
 - `docs/04_quality/performance.md`
 - `docs/06_release/demo_script.md`
 - `docs/06_release/self_assessment.md`

diff --git a/docs/01_product/scope_contract.md b/docs/01_product/scope_contract.md
@@ -201,4 +201,6 @@ Tudatosan kihagyott, de a jelenlegi tervezéssel összeegyeztethető bővítése
 - **A kategória-eltarthatóság felhasználói felülírása** a háztartás saját szokásaihoz.
 - **Hozzávaló-hierarchia és helyettesíthetőség** („trappista sajt” ⊂ „sajt”), lásd [ADR-0003](../02_architecture/adr/0003-kanonikus-hozzavalo-lista.md).
 - **Tömeg–térfogat átváltás** hozzávalónkénti sűrűséggel, lásd [ADR-0002](../02_architecture/adr/0002-fix-atvalthato-mertekegysegek.md).
+- **„Csak az elkészíthetők” szűrő a Receptek oldalon:** a receptlista szűrése arra, ami a készletből most elkészíthető; az ajánlás adataiból, a backend számolja.
+- **A bevásárlólista-tétel forrása:** minden tételnél látszana, honnan került a listára (melyik receptből vagy kézzel); ehhez a tétel a forrását is tárolná.
 - **Automatizált akadálymentesség-ellenőrzés** az e2e tesztekben (axe-core); jelenleg Lighthouse-audit és kézi bejárás.
